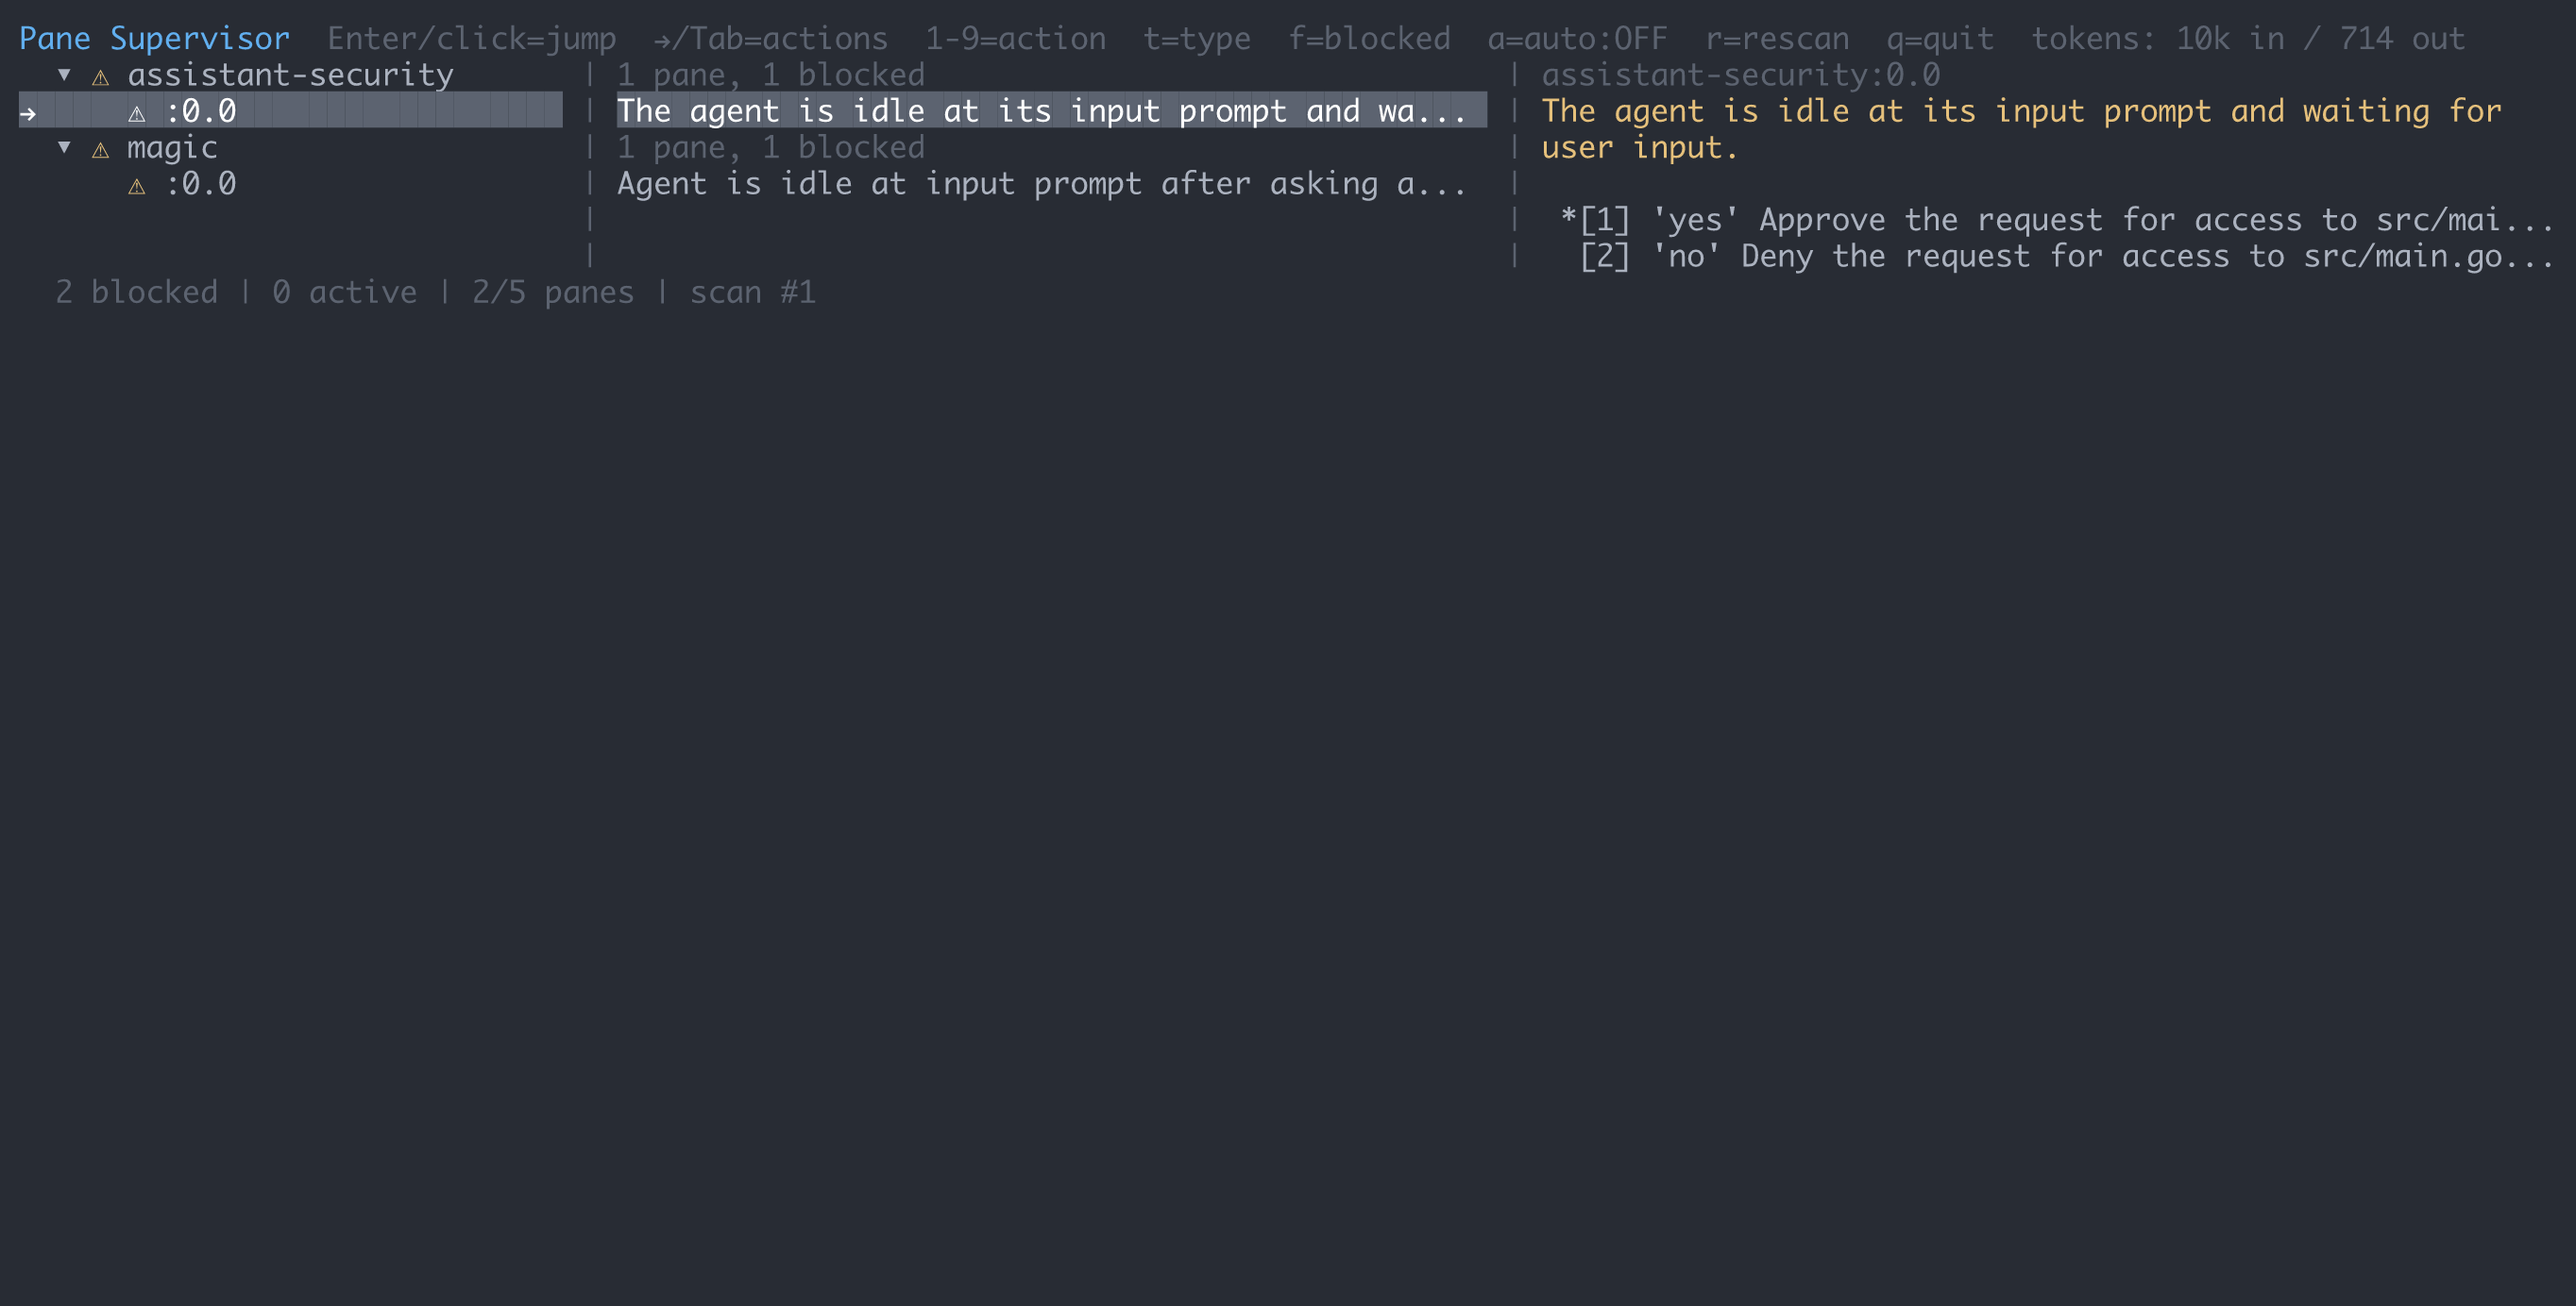
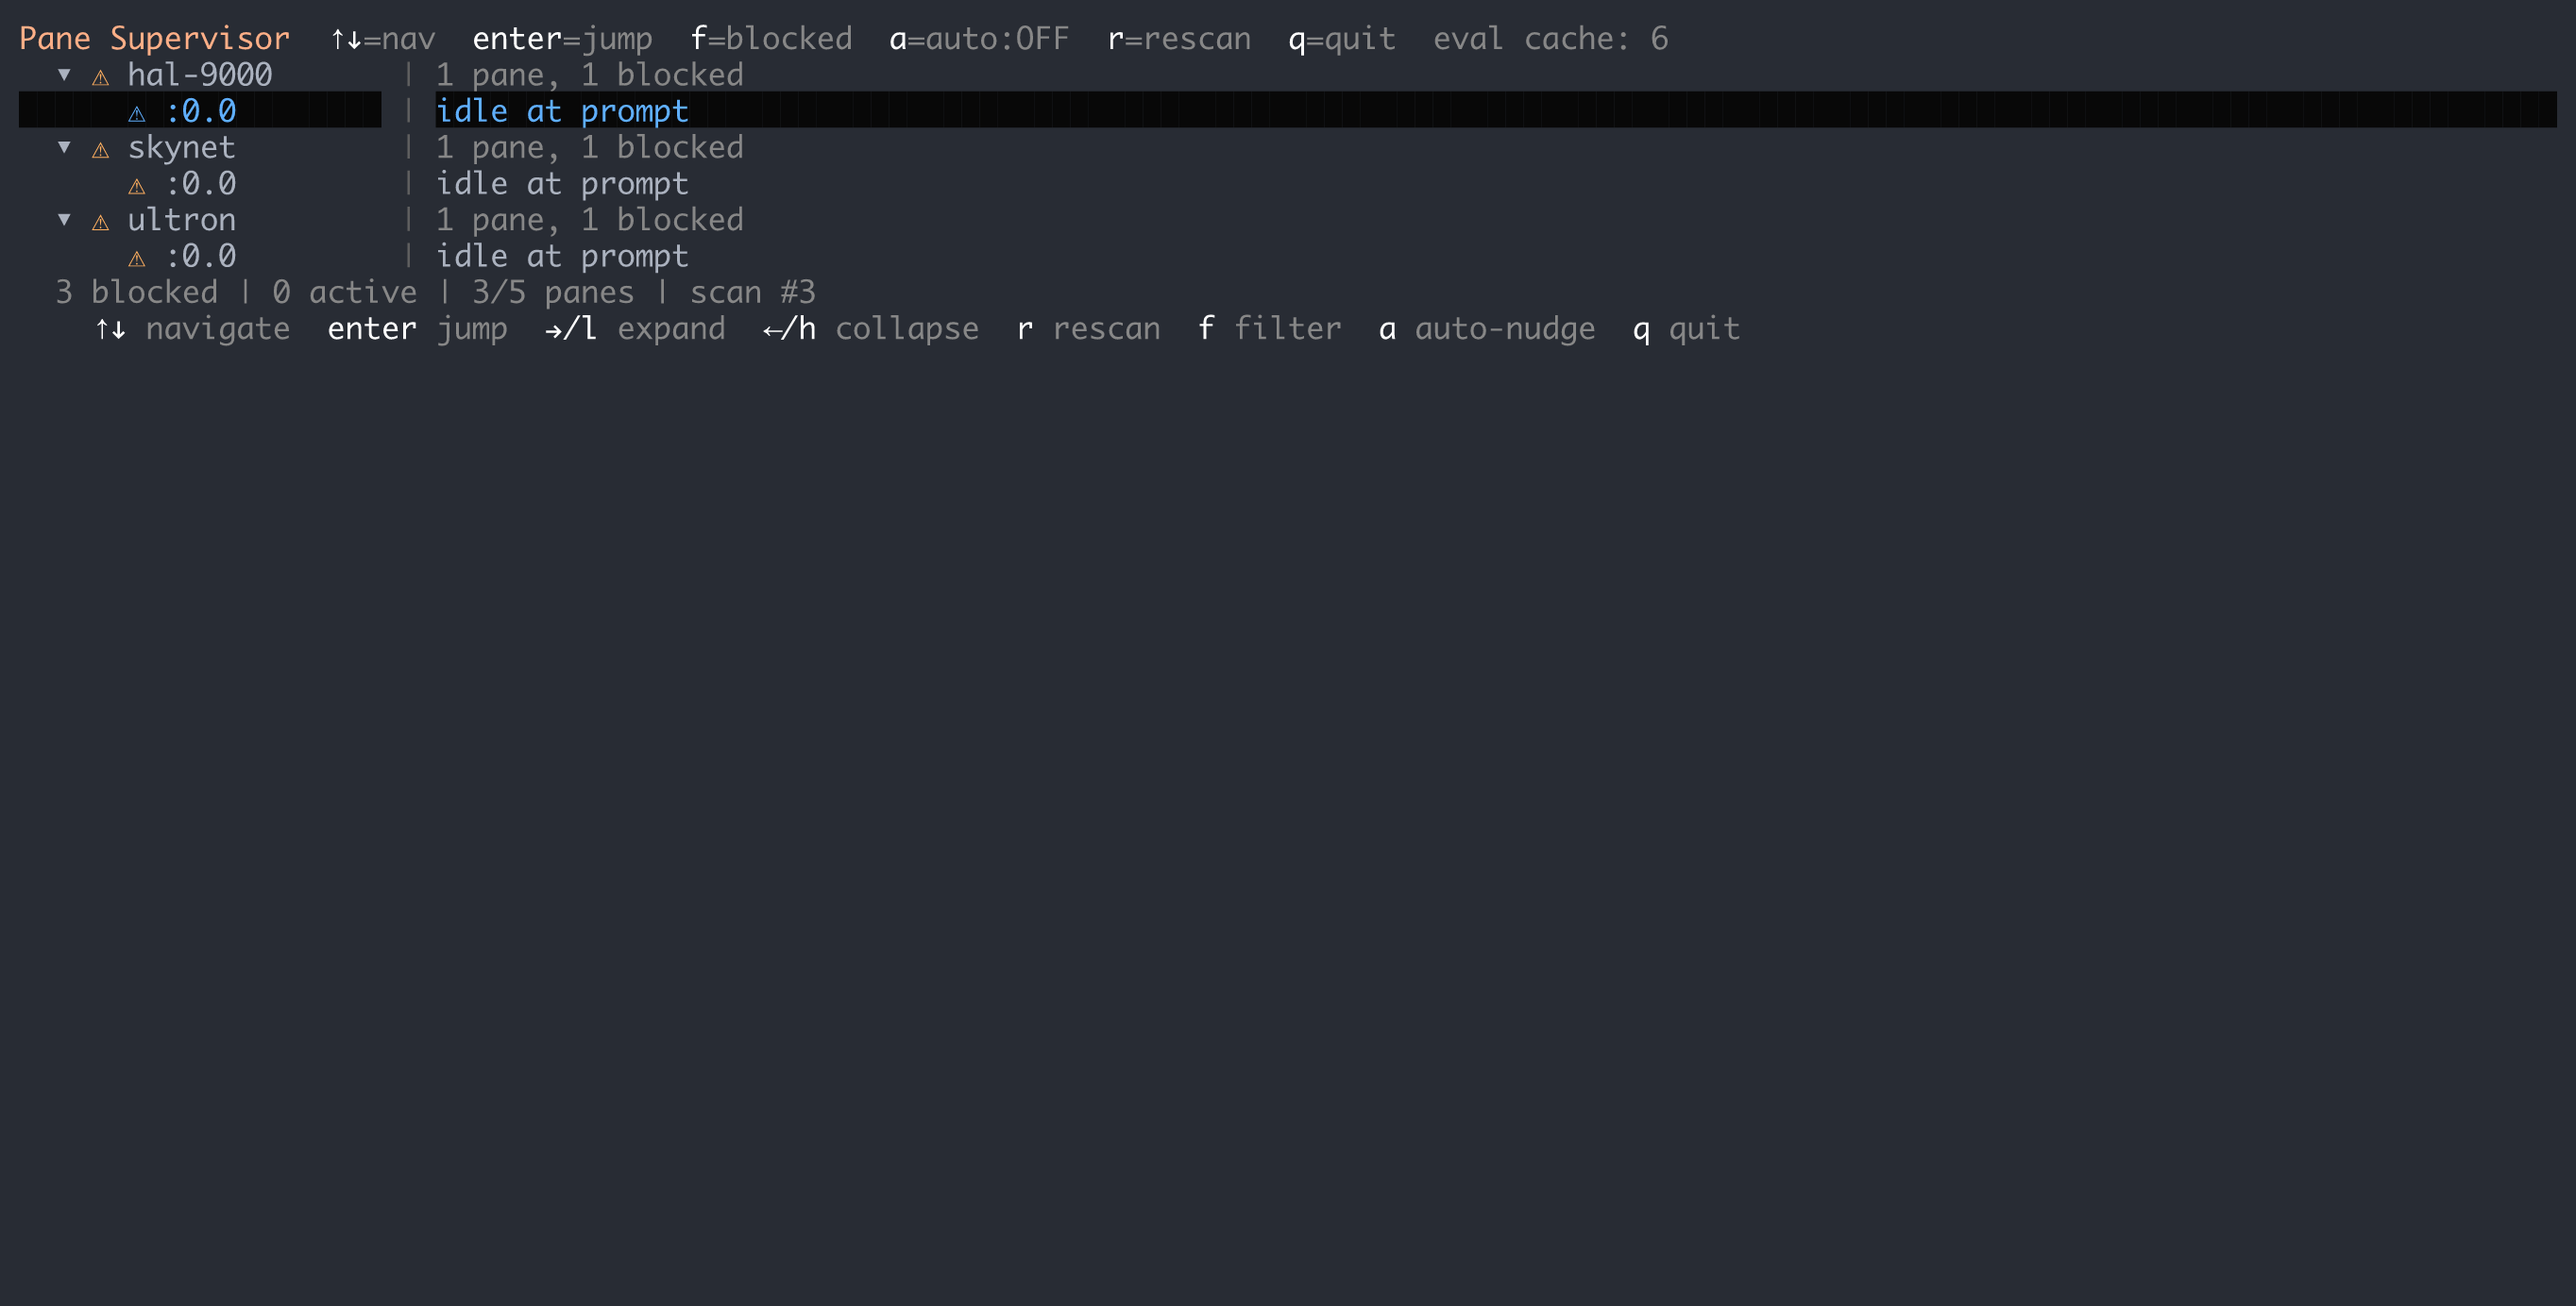
docs: update demo recordings with live agent detection
Record scan and supervisor demos via shellwright against real agents
running on a remote host. The scan demo shows JSON output detecting
OpenCode (question dialog), Claude Code (idle), and Codex (idle).
The supervisor demo shows filter cycling (blocked/agents/all),
keyboard navigation, and Enter-to-jump landing on the target agent's
TUI.

Prompt sanitization (PS1, clear) prevents hostname/username leaks.
Remove stale supervisor-actions.png, add supervisor-selected and
supervisor-jump screenshots.

diff --git a/demo/record.py b/demo/record.py
@@ -12,6 +12,12 @@ Usage:
     # Or record a specific demo:
     uv run --with "mcp[cli]" python demo/record.py scan
     uv run --with "mcp[cli]" python demo/record.py supervisor
+
+Environment variables:
+    SHELLWRIGHT_URL  — shellwright endpoint (default: http://localhost:7498)
+    SHELLWRIGHT_OUTPUT — output directory (default: ./demo/output)
+    DEMO_HOST — SSH host alias for remote machine (default: aspire)
+    PANE_PATROL — path to pane-patrol binary on remote (default: ~/bin/pane-patrol)
 """
 
 import asyncio
@@ -22,12 +28,20 @@ import urllib.request
 
 SHELLWRIGHT_URL = os.environ.get("SHELLWRIGHT_URL", "http://localhost:7498")
 OUTPUT_DIR = os.environ.get("SHELLWRIGHT_OUTPUT", "./demo/output")
+DEMO_HOST = os.environ.get("DEMO_HOST", "aspire")
+PANE_PATROL = os.environ.get("PANE_PATROL", "~/bin/pane-patrol")
 
 # ANSI colors for logging
 CYAN = "\033[36m"
 GREEN = "\033[32m"
 DIM = "\033[2m"
 RESET = "\033[0m"
+
+# Key escape sequences
+UP = "\x1b[A"
+DOWN = "\x1b[B"
+ENTER = "\r"
+CTRL_B = "\x02"
 
 
 async def call_tool(session, name: str, args: dict) -> dict:
@@ -73,13 +87,8 @@ async def read_buffer(session, sid: str) -> str:
     return text
 
 
-async def demo_scan(session, output_dir: str):
-    """Demo 1: CLI scan showing JSON output."""
-    print(f"\n{'=' * 60}")
-    print("Recording: pane-patrol scan")
-    print(f"{'=' * 60}\n")
-
-    # Start shell
+async def start_shell(session) -> tuple[str, dict]:
+    """Start a new shellwright shell session with sanitized prompt."""
     shell = await call_tool(
         session,
         "shell_start",
@@ -92,30 +101,64 @@ async def demo_scan(session, output_dir: str):
         },
     )
     sid = shell["shell_session_id"]
-
-    # Sanitize prompt to avoid leaking hostname/username in screenshots
+    # Sanitize the LOCAL prompt immediately to avoid leaking hostname/username
+    # in any recorded frame (even briefly before clear).
     await call_tool(
         session,
         "shell_send",
         {"session_id": sid, "input": "export PS1='$ '\r", "delay_ms": 500},
     )
+    return sid, shell
 
-    # Start recording (low fps to keep GIF rendering fast)
+
+async def setup_ssh(session, sid: str):
+    """SSH to remote host and sanitize prompt. Done BEFORE recording starts."""
+    await call_tool(
+        session,
+        "shell_send",
+        {"session_id": sid, "input": f"ssh {DEMO_HOST}\r", "delay_ms": 3000},
+    )
+    # Sanitize prompt on remote to avoid leaking hostname/username
+    await call_tool(
+        session,
+        "shell_send",
+        {"session_id": sid, "input": "export PS1='$ '\r", "delay_ms": 500},
+    )
+    # Clear screen so recording starts clean (no SSH banner/MOTD visible)
+    await call_tool(
+        session,
+        "shell_send",
+        {"session_id": sid, "input": "clear\r", "delay_ms": 500},
+    )
+
+
+async def demo_scan(session, output_dir: str):
+    """Demo 1: CLI scan showing JSON output with agent detection."""
+    print(f"\n{'=' * 60}")
+    print("Recording: pane-patrol scan")
+    print(f"{'=' * 60}\n")
+
+    sid, _ = await start_shell(session)
+
+    # SSH and sanitize (not recorded)
+    await setup_ssh(session, sid)
+
+    # Start recording
     await call_tool(session, "shell_record_start", {"session_id": sid, "fps": 4})
 
-    # Run pane-patrol scan with jq formatting
-    # exclude_sessions in .pane-patrol.yaml handles AIGGTM filtering
+    # Run pane-patrol scan with jq formatting — filter to detected agents only
     scan_cmd = (
-        "clear && ./bin/pane-patrol scan 2>/dev/null"
-        " | jq '[ .[] | {target, agent, blocked, reason} ]'"
+        f"clear && {PANE_PATROL} scan 2>/dev/null"
+        " | jq '[ .[] | select(.agent != \"unknown\") | {target, agent, blocked, reason, waiting_for} ]'"
     )
     await call_tool(
         session,
         "shell_send",
         {"session_id": sid, "input": f"{scan_cmd}\r", "delay_ms": 500},
     )
-    # Wait for LLM to evaluate all panes (~2-3s each, ~10 panes)
-    await wait(60)
+    # Deterministic parsers are fast (<100ms total), but allow time for
+    # pane capture + SSH round-trip + jq rendering
+    await wait(8)
 
     # Check what's on screen
     await read_buffer(session, sid)
@@ -124,10 +167,7 @@ async def demo_scan(session, output_dir: str):
     data = await call_tool(
         session,
         "shell_screenshot",
-        {
-            "session_id": sid,
-            "name": "scan-output",
-        },
+        {"session_id": sid, "name": "scan-output"},
     )
     await download(data, output_dir)
     await wait(2)
@@ -136,51 +176,68 @@ async def demo_scan(session, output_dir: str):
     data = await call_tool(
         session,
         "shell_record_stop",
-        {
-            "session_id": sid,
-            "name": "demo-scan",
-        },
+        {"session_id": sid, "name": "demo-scan"},
     )
     await download(data, output_dir)
 
-    # Stop shell
+    # Cleanup: exit SSH, stop shell
+    await call_tool(
+        session,
+        "shell_send",
+        {"session_id": sid, "input": "exit\r", "delay_ms": 500},
+    )
     await call_tool(session, "shell_stop", {"session_id": sid})
 
 
 async def demo_supervisor(session, output_dir: str):
-    """Demo 2: Supervisor TUI with display filter cycling."""
+    """Demo 2: Supervisor TUI with filter cycling and jump-to-pane."""
     print(f"\n{'=' * 60}")
     print("Recording: pane-patrol supervisor")
     print(f"{'=' * 60}\n")
 
-    # Start shell
-    shell = await call_tool(
-        session,
-        "shell_start",
-        {
-            "command": "bash",
-            "args": ["--login", "-i"],
-            "cols": 140,
-            "rows": 35,
-            "theme": "one-dark",
-        },
-    )
-    sid = shell["shell_session_id"]
+    sid, _ = await start_shell(session)
 
-    # Start recording
-    await call_tool(session, "shell_record_start", {"session_id": sid, "fps": 10})
-    await wait(1)
+    # SSH and sanitize (not recorded)
+    await setup_ssh(session, sid)
 
-    # Clear and launch supervisor — use large delay_ms to wait for LLM scan
-    # inside the MCP call (keeps connection alive vs asyncio.sleep)
+    # Create a tmux session for the demo so jump-to-pane works.
+    # The supervisor needs to run inside tmux to switch clients on Enter.
+    # Kill any leftover demo session first, then create fresh.
     await call_tool(
         session,
         "shell_send",
         {
             "session_id": sid,
-            "input": "clear && ./bin/pane-patrol supervisor\r",
-            "delay_ms": 20000,
+            "input": "tmux kill-session -t demo 2>/dev/null; tmux new-session -s demo\r",
+            "delay_ms": 1500,
         },
+    )
+    # Re-sanitize prompt inside tmux (new shell) and disable status bar
+    await call_tool(
+        session,
+        "shell_send",
+        {
+            "session_id": sid,
+            "input": "export PS1='$ ' && tmux set-option status off\r",
+            "delay_ms": 500,
+        },
+    )
+    # Clear screen inside tmux so recording starts clean
+    await call_tool(
+        session,
+        "shell_send",
+        {"session_id": sid, "input": "clear\r", "delay_ms": 500},
+    )
+
+    # Start recording
+    await call_tool(session, "shell_record_start", {"session_id": sid, "fps": 10})
+    await wait(1)
+
+    # Launch supervisor (default command)
+    await call_tool(
+        session,
+        "shell_send",
+        {"session_id": sid, "input": f"clear && {PANE_PATROL}\r", "delay_ms": 8000},
     )
 
     # Screenshot: default view (blocked filter)
@@ -191,45 +248,116 @@ async def demo_supervisor(session, output_dir: str):
     )
     await download(data, output_dir)
 
-    # Cycle filters: f -> agents, f -> all, f -> blocked, then right arrow for actions
-    for key, name in [
-        ("f", "supervisor-agents"),
-        ("f", "supervisor-all"),
-        ("f", None),
-        ("\x1b[C", "supervisor-actions"),
-    ]:
-        await call_tool(
-            session,
-            "shell_send",
-            {"session_id": sid, "input": key, "delay_ms": 1500},
-        )
-        if name:
-            data = await call_tool(
-                session,
-                "shell_screenshot",
-                {"session_id": sid, "name": name},
-            )
-            await download(data, output_dir)
+    # --- Filter cycling with 'f' ---
 
-    # Quit supervisor
+    # f -> agents filter
     await call_tool(
         session,
         "shell_send",
-        {"session_id": sid, "input": "q", "delay_ms": 1000},
+        {"session_id": sid, "input": "f", "delay_ms": 1500},
     )
+    data = await call_tool(
+        session,
+        "shell_screenshot",
+        {"session_id": sid, "name": "supervisor-agents"},
+    )
+    await download(data, output_dir)
+
+    # f -> all filter
+    await call_tool(
+        session,
+        "shell_send",
+        {"session_id": sid, "input": "f", "delay_ms": 1500},
+    )
+    data = await call_tool(
+        session,
+        "shell_screenshot",
+        {"session_id": sid, "name": "supervisor-all"},
+    )
+    await download(data, output_dir)
+
+    # f -> back to blocked
+    await call_tool(
+        session,
+        "shell_send",
+        {"session_id": sid, "input": "f", "delay_ms": 1500},
+    )
+
+    # --- Navigate to a pane and jump ---
+    #
+    # After pressing 'f', the cursor resets to position 0 then
+    # clampCursorToPane() moves it to the first pane (hal-9000:0.0).
+    # Session headers are auto-skipped during navigation, so one
+    # Down press jumps from hal-9000:0.0 directly to skynet:0.0.
+    #
+    # We target skynet because it has the most interesting state
+    # (question dialog with options) and avoids showing the Claude
+    # welcome banner which contains an email address.
+
+    await call_tool(
+        session,
+        "shell_send",
+        {"session_id": sid, "input": "j", "delay_ms": 500},
+    )
+
+    # Brief pause to show the selected pane's details in the right panel
+    await wait(1)
+
+    # Screenshot: pane selected, showing actions panel
+    data = await call_tool(
+        session,
+        "shell_screenshot",
+        {"session_id": sid, "name": "supervisor-selected"},
+    )
+    await download(data, output_dir)
+
+    # Press Enter to jump to the pane
+    # The supervisor exits and tmux switches to the target pane,
+    # showing the actual agent TUI (OpenCode with question dialog).
+    await call_tool(
+        session,
+        "shell_send",
+        {"session_id": sid, "input": ENTER, "delay_ms": 2000},
+    )
+
+    # Screenshot: now showing the OpenCode TUI directly
+    data = await call_tool(
+        session,
+        "shell_screenshot",
+        {"session_id": sid, "name": "supervisor-jump"},
+    )
+    await download(data, output_dir)
+
+    await wait(1)
 
     # Stop recording
     data = await call_tool(
         session,
         "shell_record_stop",
-        {
-            "session_id": sid,
-            "name": "demo-supervisor",
-        },
+        {"session_id": sid, "name": "demo-supervisor"},
     )
     await download(data, output_dir)
 
-    # Stop shell
+    # Cleanup: detach from tmux, kill demo session, exit SSH
+    await call_tool(
+        session,
+        "shell_send",
+        {"session_id": sid, "input": f"{CTRL_B}d", "delay_ms": 1000},
+    )
+    await call_tool(
+        session,
+        "shell_send",
+        {
+            "session_id": sid,
+            "input": "tmux kill-session -t demo 2>/dev/null\r",
+            "delay_ms": 500,
+        },
+    )
+    await call_tool(
+        session,
+        "shell_send",
+        {"session_id": sid, "input": "exit\r", "delay_ms": 500},
+    )
     await call_tool(session, "shell_stop", {"session_id": sid})
 
 
@@ -253,6 +381,7 @@ async def main():
 
     print(f"{DIM}shellwright:{RESET} {SHELLWRIGHT_URL}")
     print(f"{DIM}output:{RESET} {OUTPUT_DIR}")
+    print(f"{DIM}host:{RESET} {DEMO_HOST}")
     print(f"{DIM}demos:{RESET} {', '.join(requested)}")
 
     try:
